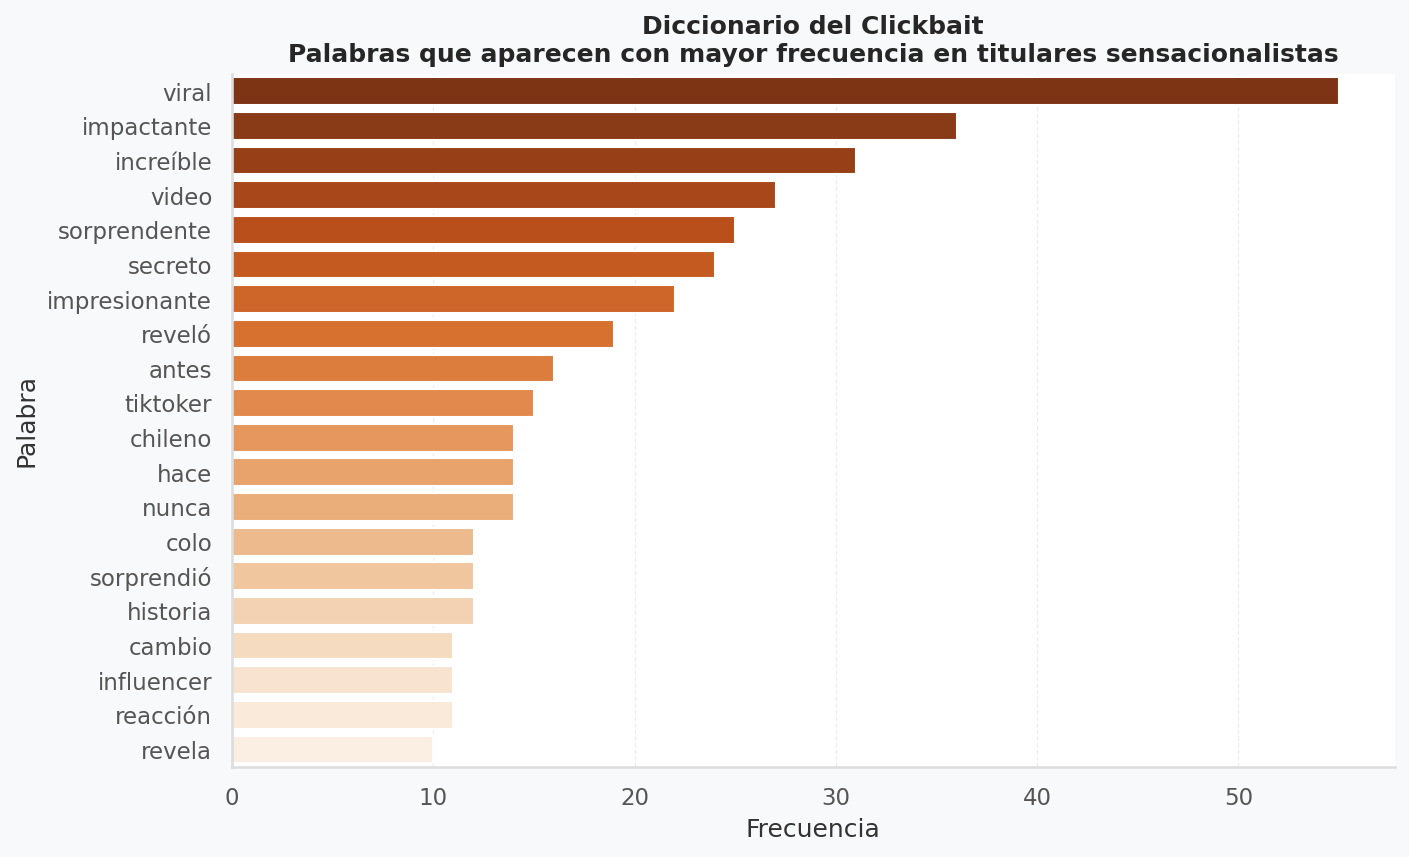
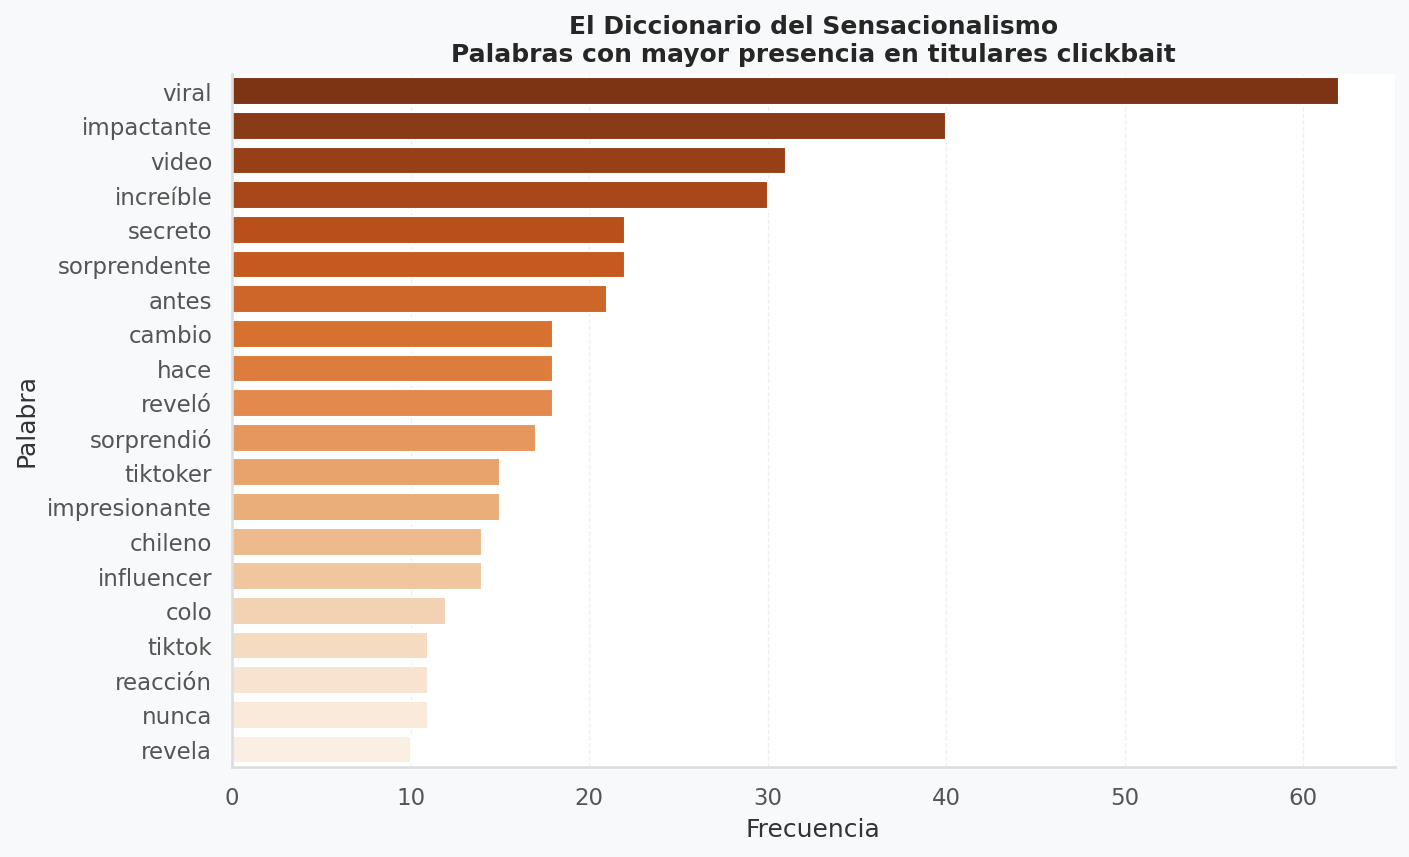
feat: data analysis

diff --git a/dataset-analysis.py b/dataset-analysis.py
@@ -1,20 +1,21 @@
 """
 TAREA 2 - NLP & XAI: Análisis Exploratorio del Dataset (EDA)
-Versión Simplificada y Profesional — Enfoque en Hallazgos de Negocio/Educativos
+Versión Narrativa — Foco en el comportamiento del Clickbait
 
-Genera 9 análisis clave sobre el fenómeno del clickbait:
-  1. Ranking de Sensacionalismo por Medio (% de clickbait por portal)
-  2. Concentración del Fenómeno (Quiénes aportan más clickbait al total)
-  3. Comparativa Geográfica (Chile vs Extranjero)
-  4. Tendencia del Clickbait en el Tiempo (Evolución mensual)
-  5. Anatomía del Titular: Extensión (Largo de textos por clase)
-  6. Anatomía del Titular: Uso de Ganchos (Signos ! y ?)
-  7. Diccionario del Clickbait (Palabras más frecuentes)
-  8. Términos que Delatan el Clickbait (Asociación diferencial de palabras)
-  9. Relación Volumen vs Estilo (Producción total vs % de sensacionalismo)
+Genera 10 visualizaciones clave para entender el fenómeno:
+  1. Ranking de Sensacionalismo por Medio (% clickbait por portal)
+  2. Distribución por Medio (Quién aporta más al total)
+  3. Estilo Editorial: Chile vs El Mundo (Comparativa geográfica)
+  4. Tendencia en el Tiempo (Evolución de tácticas)
+  5. Anatomía del Titular: Extensión (Largo de textos)
+  6. Anatomía del Titular: Ganchos Visuales (Signos ! y ?)
+  7. El Diccionario del Clickbait (Palabras más frecuentes)
+  8. Términos que Delatan el Clickbait (Asociación palabra vs clase)
+  9. ¿El volumen afecta al estilo? (Relación cantidad vs sensacionalismo)
+  10. Tácticas más comunes (Brecha, Exageración, Emoción, Ambigüedad)
 
 USO:
-  python dataset-analysis.py --csv dataset_output/dataset_etiquetado_v3.csv
+  python dataset-analysis.py --csv dataset_output/dataset_etiquetado_v4.csv
 """
 
 import argparse
@@ -69,7 +70,7 @@ STOPWORDS_ES = {
     "más", "pero", "sus", "como", "o", "si", "no", "fue", "ha", "ya",
     "este", "esto", "esta", "ese", "esa", "son", "está", "hay",
     "ser", "han", "dos", "nueva", "nuevo", "tras", "sobre", "entre",
-    "ante", "desde", "hasta", "chile", "año", "años", "tras",
+    "ante", "desde", "hasta", "chile", "año", "años",
     "así", "he", "me", "mi", "te", "tu", "yo", "ni", "aunque", "donde",
     "cuando", "como", "quien", "cual", "todo", "todos", "estos", "estas"
 }
@@ -79,16 +80,15 @@ def load_dataset(csv_path: str) -> pd.DataFrame:
     df = pd.read_csv(csv_path, encoding="utf-8-sig")
     df.columns = [c.strip().lower() for c in df.columns]
 
-    # Quedarse solo con las clases de interés
     df = df[df["etiqueta_final"].isin(["informativo", "clickbait", "fake_news"])].copy()
 
     if "fecha_publicacion" in df.columns:
         df["fecha_dt"] = pd.to_datetime(df["fecha_publicacion"], errors="coerce", utc=True)
         df["fecha_dt"] = df["fecha_dt"].dt.tz_localize(None)
-    
-    df["n_chars"]  = df["titulo"].astype(str).str.len()
+
+    df["n_chars"] = df["titulo"].astype(str).str.len()
     df["has_excl"] = df["titulo"].astype(str).str.contains(r"!", regex=False).astype(int)
-    df["has_qmark"]= df["titulo"].astype(str).str.contains(r"\?", regex=True).astype(int)
+    df["has_qmark"] = df["titulo"].astype(str).str.contains(r"\?", regex=True).astype(int)
     df["es_clickbait"] = (df["etiqueta_final"] == "clickbait").astype(int)
 
     print(f"[✓] Dataset cargado: {len(df):,} titulares")
@@ -103,8 +103,8 @@ def short_portal(name: str, max_len: int = 22) -> str:
     name = str(name)
     return name if len(name) <= max_len else name[:max_len - 1] + "…"
 
-# ANÁLISIS 1: Ranking de Portales
-def analisis_1_ranking_sensacionalismo(df: pd.DataFrame, out: str):
+# 1
+def analisis_1_ranking(df: pd.DataFrame, out: str):
     MIN_TITULARES = 25
     stats = (
         df.groupby("portal")
@@ -118,29 +118,27 @@ def analisis_1_ranking_sensacionalismo(df: pd.DataFrame, out: str):
     fig, ax = plt.subplots(figsize=(10, 6))
     sns.barplot(x=stats["pct"], y=[short_portal(p) for p in stats.index], 
                 palette="Reds_r", ax=ax, edgecolor="#333", linewidth=0.5)
-    ax.set_title("Ranking de Sensacionalismo por Medio\n(% de su contenido identificado como clickbait)")
-    ax.set_xlabel("Porcentaje de titulares clickbait (%)")
+    ax.set_title("Uso de Clickbait por Medio de Comunicación\n(% de contenido sensacionalista en su muestra)")
+    ax.set_xlabel("Porcentaje de titulares detectados (%)")
     ax.set_ylabel("")
-    
     for i, v in enumerate(stats["pct"]):
         ax.text(v + 0.5, i, f"{v:.1f}%", va="center", fontsize=9)
+    save_fig(fig, os.path.join(out, "1_ranking_sensacionalismo.png"))
 
-    save_fig(fig, os.path.join(out, "1_ranking_portales.png"))
-
-# ANÁLISIS 2: Concentración
+# 2
 def analisis_2_concentracion(df: pd.DataFrame, out: str):
     cb_df = df[df["etiqueta_final"] == "clickbait"]
-    stats = cb_df["portal"].value_counts().head(15)
+    stats = cb_df["portal"].value_counts().head(12)
     
     fig, ax = plt.subplots(figsize=(10, 6))
-    stats.plot(kind="pie", autopct="%1.1f%%", ax=ax, colors=sns.color_palette("muted"),
+    stats.plot(kind="pie", autopct="%1.1f%%", ax=ax, colors=sns.color_palette("Reds_r", n_colors=12),
                wedgeprops={'edgecolor': 'white', 'linewidth': 1.5})
     ax.set_ylabel("")
-    ax.set_title("Distribución del Clickbait Total\n¿Qué medios generan el mayor volumen de este contenido?")
-    save_fig(fig, os.path.join(out, "2_concentracion_total.png"))
+    ax.set_title("Origen del Clickbait Analizado\n¿Qué medios aportan el mayor volumen de titulares sospechosos?")
+    save_fig(fig, os.path.join(out, "2_concentracion_medios.png"))
 
-# ANÁLISIS 3: Chile vs Internacional
-def analisis_3_comparativa_geografica(df: pd.DataFrame, out: str):
+# 3
+def analisis_3_geografico(df: pd.DataFrame, out: str):
     pivot = pd.crosstab(df["origen"], df["etiqueta_final"], normalize="index") * 100
     
     fig, ax = plt.subplots(figsize=(9, 5))
@@ -150,38 +148,37 @@ def analisis_3_comparativa_geografica(df: pd.DataFrame, out: str):
     ax.set_ylabel("Distribución de contenidos (%)")
     ax.set_xlabel("")
     ax.set_xticklabels(["Internacional", "Nacional"], rotation=0)
-    ax.legend(title="Tipo de contenido", bbox_to_anchor=(1, 1))
-    
-    save_fig(fig, os.path.join(out, "3_comparativa_origen.png"))
+    ax.legend(title="Tipo de noticia", bbox_to_anchor=(1, 1))
+    save_fig(fig, os.path.join(out, "3_estilo_geografico.png"))
 
-# ANÁLISIS 4: Evolución Temporal
+# 4
 def analisis_4_evolucion(df: pd.DataFrame, out: str):
     df_f = df.dropna(subset=["fecha_dt"]).copy()
-    df_f = df_f[df_f["fecha_dt"].dt.year >= 2023]
-    if len(df_f) < 50: return
+    df_f = df_f[df_f["fecha_dt"].dt.year >= 2024] # Foco en periodo reciente
+    if len(df_f) < 30: return
 
     df_f["mes"] = df_f["fecha_dt"].dt.to_period("M").dt.to_timestamp()
     trend = df_f.groupby("mes")["es_clickbait"].mean() * 100
 
     fig, ax = plt.subplots(figsize=(12, 5))
-    ax.plot(trend.index, trend.values, marker='o', color=ACCENT, linewidth=2, markersize=4)
+    ax.plot(trend.index, trend.values, marker='o', color=ACCENT, linewidth=2)
     ax.fill_between(trend.index, trend.values, alpha=0.1, color=ACCENT)
-    ax.set_title("Evolución del Clickbait en el Tiempo\n(Promedio mensual de uso de tácticas de enganche)")
-    ax.set_ylabel("% de Clickbait")
+    ax.set_title("Evolución en el Uso de Tácticas de Enganche\n(Promedio mensual de titulares clickbait)")
+    ax.set_ylabel("% Detectado")
     ax.xaxis.set_major_formatter(mdates.DateFormatter("%b %Y"))
-    save_fig(fig, os.path.join(out, "4_evolucion_temporal.png"))
+    save_fig(fig, os.path.join(out, "4_tendencia_temporal.png"))
 
-# ANÁLISIS 5: Extensión
+# 5
 def analisis_5_extension(df: pd.DataFrame, out: str):
     fig, ax = plt.subplots(figsize=(10, 5))
     sns.boxplot(data=df, x="etiqueta_final", y="n_chars", palette=PALETTE, ax=ax, showfliers=False)
-    ax.set_title("Anatomía del Titular: Extensión del Texto")
-    ax.set_ylabel("Cantidad de caracteres")
+    ax.set_title("Anatomía del Titular: ¿Son más largos los engañosos?")
+    ax.set_ylabel("Longitud (caracteres)")
     ax.set_xlabel("")
     ax.set_xticklabels(["Informativo", "Clickbait", "Fake News"])
-    save_fig(fig, os.path.join(out, "5_extension_titulares.png"))
+    save_fig(fig, os.path.join(out, "5_anatomia_extension.png"))
 
-# ANÁLISIS 6: Ganchos de Puntuación
+# 6
 def analisis_6_puntuacion(df: pd.DataFrame, out: str):
     stats = df.groupby("etiqueta_final").agg(
         Exclamación=("has_excl", "mean"),
@@ -190,13 +187,13 @@ def analisis_6_puntuacion(df: pd.DataFrame, out: str):
 
     fig, ax = plt.subplots(figsize=(9, 5))
     stats.plot(kind="bar", ax=ax, color=["#FF6B6B", "#4D96FF"], edgecolor="white")
-    ax.set_title("Uso de Ganchos Visuales\n% de titulares que usan signos de puntuación para atraer")
+    ax.set_title("Uso de Ganchos Visuales\n% de noticias que usan signos para forzar el interés")
     ax.set_ylabel("% de titulares")
     ax.set_xlabel("")
     ax.set_xticklabels(["Informativo", "Clickbait", "Fake News"], rotation=0)
-    save_fig(fig, os.path.join(out, "6_uso_puntuacion.png"))
+    save_fig(fig, os.path.join(out, "6_ganchos_puntuacion.png"))
 
-# ANÁLISIS 7: Diccionario del Clickbait
+# 7
 def analisis_7_diccionario(df: pd.DataFrame, out: str):
     def get_top_words(text_series, top_n=20):
         words = []
@@ -209,34 +206,33 @@ def analisis_7_diccionario(df: pd.DataFrame, out: str):
     
     fig, ax = plt.subplots(figsize=(10, 6))
     sns.barplot(data=cb_words, x="Frecuencia", y="Palabra", palette="Oranges_r", ax=ax)
-    ax.set_title("Diccionario del Clickbait\nPalabras que aparecen con mayor frecuencia en titulares sensacionalistas")
+    ax.set_title("El Diccionario del Sensacionalismo\nPalabras con mayor presencia en titulares clickbait")
     save_fig(fig, os.path.join(out, "7_diccionario_clickbait.png"))
 
-# ANÁLISIS 8: Términos que Delatan
-def analisis_8_terminos_delatadores(df: pd.DataFrame, out: str):
+# 8
+def analisis_8_asociacion(df: pd.DataFrame, out: str):
     df_bin = df[df["etiqueta_final"].isin(["clickbait", "informativo"])].copy()
     vectorizer = CountVectorizer(stop_words=list(STOPWORDS_ES), min_df=5, token_pattern=r"\b[a-z]{4,}\b")
     X = vectorizer.fit_transform(df_bin["titulo"].str.lower())
     vocab = vectorizer.get_feature_names_out()
     
-    # Convertir a numpy array para evitar problemas con sparse indexing de scipy
     mask_cb = (df_bin["etiqueta_final"] == "clickbait").values
     mask_info = (df_bin["etiqueta_final"] == "informativo").values
 
     counts_cb = X[mask_cb].sum(axis=0).A1 + 1
     counts_info = X[mask_info].sum(axis=0).A1 + 1
     
-    # Ratio de probabilidad (qué tan más probable es que sea clickbait si aparece la palabra)
+    # Probabilidad relativa (cuántas veces más probable es que sea CB si aparece la palabra)
     ratio = (counts_cb / counts_cb.sum()) / (counts_info / counts_info.sum())
-    delatadores = pd.DataFrame({"Palabra": vocab, "Ratio": ratio}).sort_values("Ratio", ascending=False).head(15)
+    delatadores = pd.DataFrame({"Palabra": vocab, "Fuerza": ratio}).sort_values("Fuerza", ascending=False).head(15)
 
     fig, ax = plt.subplots(figsize=(10, 6))
-    sns.barplot(data=delatadores, x="Ratio", y="Palabra", palette="magma", ax=ax)
-    ax.set_title("Términos que Delatan el Clickbait\nPalabras con mayor probabilidad de pertenecer a un titular sensacionalista")
-    ax.set_xlabel("Fuerza de Asociación (veces más frecuente en clickbait vs informativo)")
-    save_fig(fig, os.path.join(out, "8_terminos_delatadores.png"))
+    sns.barplot(data=delatadores, x="Fuerza", y="Palabra", palette="magma", ax=ax)
+    ax.set_title("Términos que Delatan el Clickbait\n(Veces más probable que un titular sea sensacionalista si contiene la palabra)")
+    ax.set_xlabel("Fuerza de Asociación (probabilidad relativa)")
+    save_fig(fig, os.path.join(out, "8_palabras_delatadoras.png"))
 
-# ANÁLISIS 9: Volumen vs Estilo
+# 9
 def analisis_9_volumen_estilo(df: pd.DataFrame, out: str):
     stats = df.groupby("portal").agg(
         Total=("titulo", "count"),
@@ -245,38 +241,60 @@ def analisis_9_volumen_estilo(df: pd.DataFrame, out: str):
     stats["Sensacionalismo"] *= 100
 
     fig, ax = plt.subplots(figsize=(10, 6))
-    sns.regplot(data=stats, x="Total", y="Sensacionalismo", scatter_kws={'alpha':0.5, 's':stats['Total']*2}, 
+    sns.regplot(data=stats, x="Total", y="Sensacionalismo", scatter_kws={'alpha':0.5, 's':stats['Total']*2.5}, 
                 line_kws={'color':ACCENT}, ax=ax)
-    ax.set_title("Relación entre Volumen de Noticias y Estilo Sensacionalista")
+    ax.set_title("Relación entre Producción Total y Estilo Sensacionalista\n¿Los medios con más noticias recurren más al clickbait?")
     ax.set_xlabel("Cantidad total de noticias analizadas")
     ax.set_ylabel("% de contenido clickbait")
     
     for p in stats.sort_values("Sensacionalismo", ascending=False).head(5).index:
         ax.annotate(short_portal(p), (stats.loc[p, "Total"], stats.loc[p, "Sensacionalismo"]), fontsize=8)
 
-    save_fig(fig, os.path.join(out, "9_volumen_vs_estilo.png"))
+    save_fig(fig, os.path.join(out, "9_produccion_vs_estilo.png"))
+
+# 10
+def analisis_10_tacticas(df: pd.DataFrame, out: str):
+    components = {
+        "cb_brecha": "Ocultar información",
+        "cb_exageracion": "Exageración / Hipérbole",
+        "cb_emocion": "Apelación emocional",
+        "cb_ambiguedad": "Ambigüedad"
+    }
+    available = [c for c in components.keys() if c in df.columns]
+    if not available: return
+
+    subset = df[df["etiqueta_final"] == "clickbait"].copy()
+    means = subset[available].mean().sort_values(ascending=False)
+    
+    fig, ax = plt.subplots(figsize=(9, 5))
+    sns.barplot(x=means.values, y=[components[c] for c in means.index], palette="Reds_r", ax=ax)
+    ax.set_title("Anatomía del Engaño\n¿Qué tácticas se usan con mayor intensidad en el clickbait?")
+    ax.set_xlabel("Intensidad de uso (promedio)")
+    ax.set_ylabel("")
+    save_fig(fig, os.path.join(out, "10_tacticas_comunes.png"))
 
 def main():
     parser = argparse.ArgumentParser()
-    parser.add_argument("--csv", default="dataset_output/dataset_etiquetado_v3.csv")
+    parser.add_argument("--csv", default="dataset_output/dataset_etiquetado_v4.csv")
     parser.add_argument("--out", default="eda_output")
     args = parser.parse_args()
 
     os.makedirs(args.out, exist_ok=True)
     df = load_dataset(args.csv)
 
-    print("\n[→] Generando visualizaciones narrativas...")
-    analisis_1_ranking_sensacionalismo(df, args.out)
+    print("\n[→] Generando visualizaciones narrativas para el informe...")
+    analisis_1_ranking(df, args.out)
     analisis_2_concentracion(df, args.out)
-    analisis_3_comparativa_geografica(df, args.out)
+    analisis_3_geografico(df, args.out)
     analisis_4_evolucion(df, args.out)
     analisis_5_extension(df, args.out)
     analisis_6_puntuacion(df, args.out)
     analisis_7_diccionario(df, args.out)
-    analisis_8_terminos_delatadores(df, args.out)
+    analisis_8_asociacion(df, args.out)
     analisis_9_volumen_estilo(df, args.out)
+    analisis_10_tacticas(df, args.out)
 
-    print(f"\n[✓] EDA Completado. Los 9 gráficos están en: {args.out}/")
+    print(f"\n[✓] Análisis completado. 10 gráficos generados en: {args.out}/")
 
 if __name__ == "__main__":
     main()
